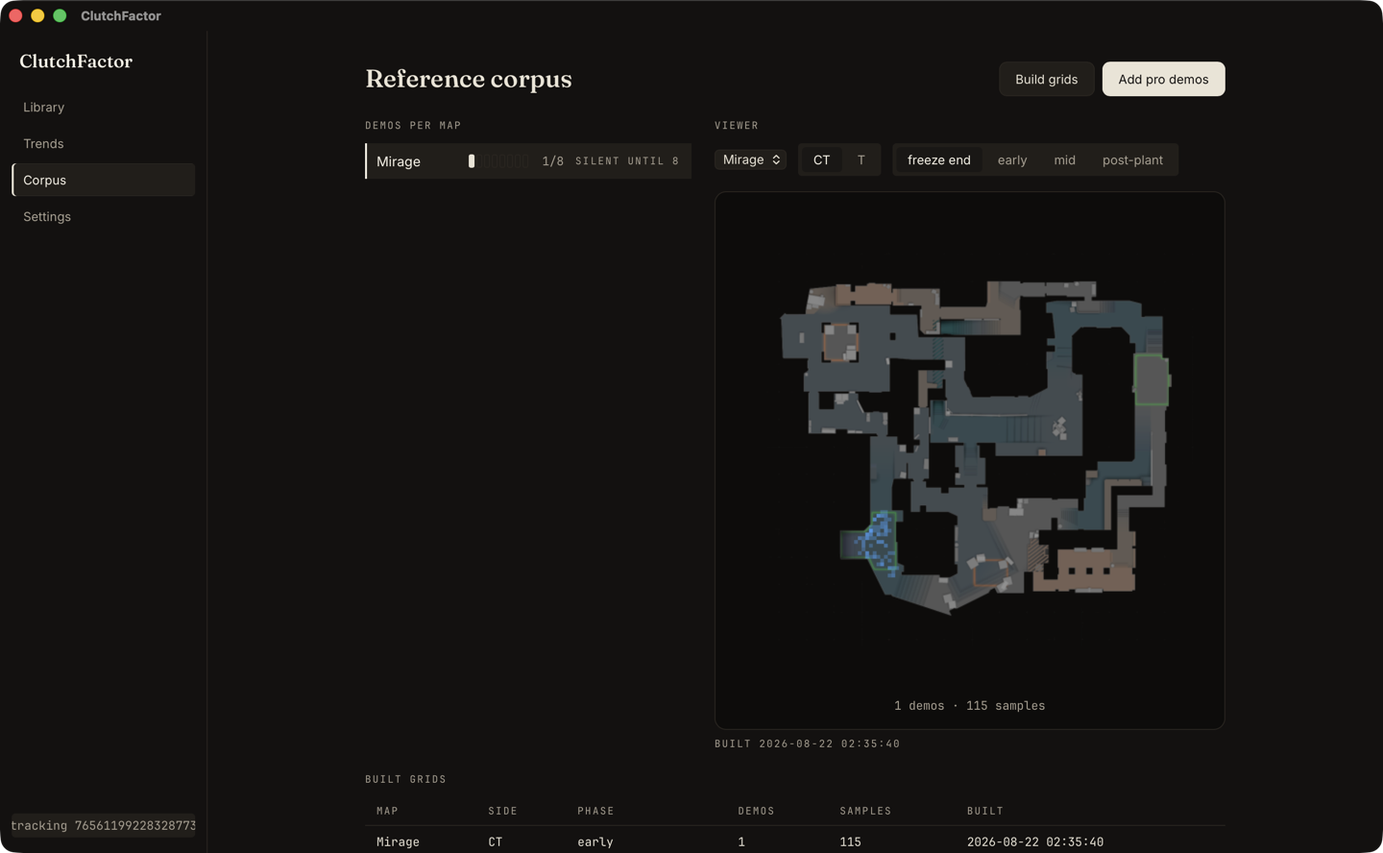
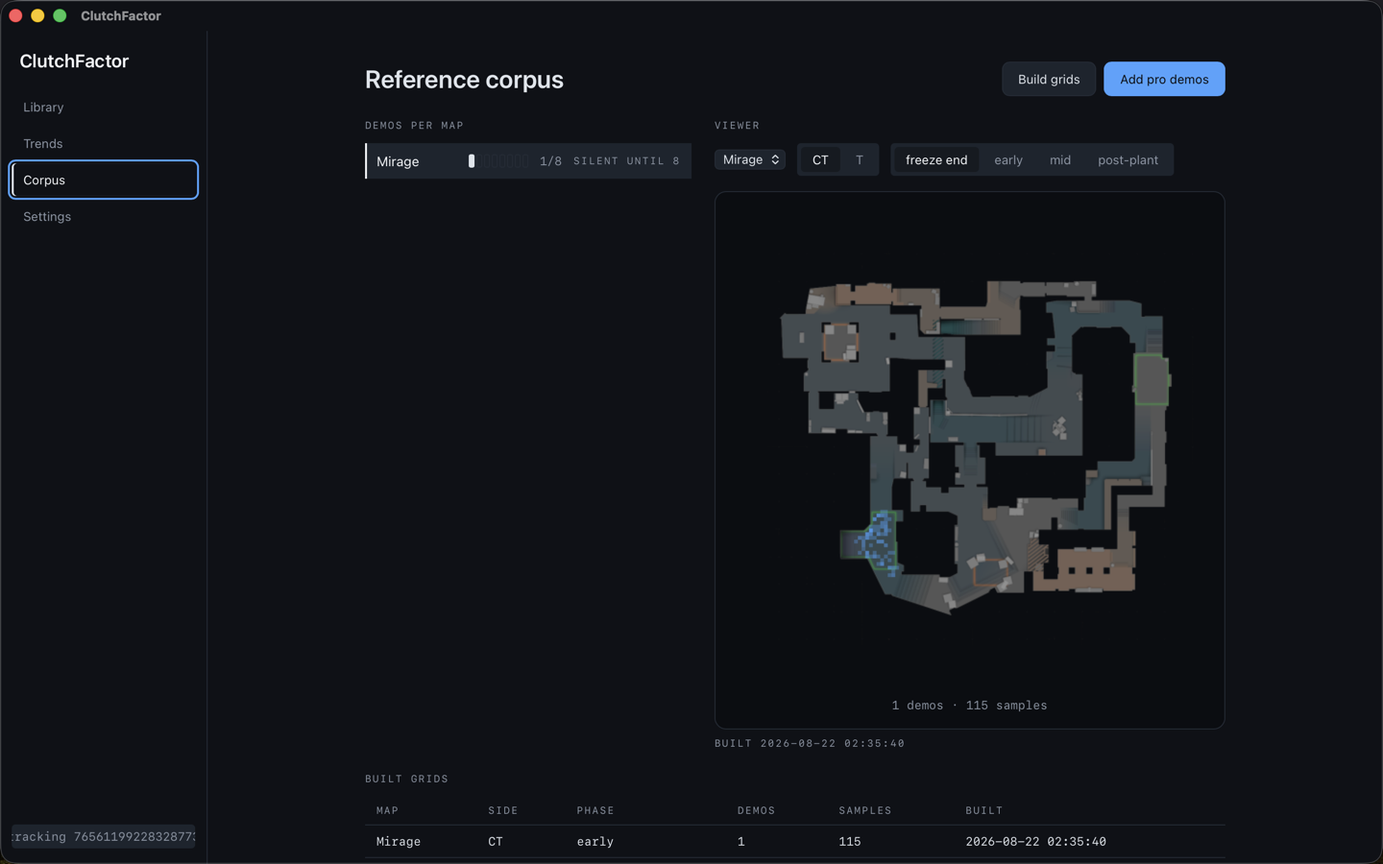
V1.2b finish: hand-verification, walkthrough, progress (#31)
* fix(ui): settings copy points at Re-analyze instead of delete-and-reimport

The tracked-player note still told the user to delete a match and import
the demo again; re_analyze_match re-runs analysis under the current
override, so the Library's Re-analyze is the path now. Caught by the V1.2b
walkthrough.

* docs: V1.2b hand-verification, walkthrough, progress

- fixtures/goldens/README.md: V1.2b hand-verification — dev DB backfilled
  through the real Library → Re-analyze → native picker flow (5/5 own
  matches, ledger rows = round counts); inferno-loss R6/R2 and mirage-tie
  R13 recomputed by hand from raw SQL (setup distances, trade windows,
  death distances/traded, tail-death clamp, alive counts, the match's only
  flash and every HE) — every stored fact and rail line matched; re-analyze
  acceptance (wrong file → hash toast + ledger unchanged, cancel, correct
  file); walkthrough graded against design-system v2 §2–§5.
- docs/design/walkthrough-v1.2b/*.png at 1440×900; docs/screenshots/*.png
  refreshed.
- Spec §1/§2 reconciliation (accent role, rail header sans / context mono,
  the flag kind, explicit death-quality precedence); design-system Chip
  variants and computed contrast figures.
- PROGRESS.md Now/Next/Done/Decisions/Gotchas; CLAUDE.md spec pointer.

---------

diff --git a/src/screens/Settings.tsx b/src/screens/Settings.tsx
@@ -94,8 +94,8 @@ export function Settings() {
               )}
             </div>
             <p className="type-body stg-hint">
-              Applies to new imports. To re-analyze an existing match, delete
-              it in the Library and import the demo again.
+              Applies to new imports — and to any existing match you
+              Re-analyze from the Library.
             </p>
           </Card>
 

diff --git a/docs/PROGRESS.md b/docs/PROGRESS.md
@@ -4,18 +4,19 @@ The resume file. A fresh session reads CLAUDE.md → this file → the active pl
 
 ## Now
 
-V1.2 complete — next: V1.3 AI layer (Gemini API key ask; see Next #1).
+V1.2b complete — next: V1.3 AI layer (the coach; key on hand in the gitignored `env.local`, never committed).
 
 ## Next
 
-1. Owner asks (batched at milestone boundaries per charter): Windows install test on the v0 release; ~8 pro Mirage demos into the corpus to clear the honest D6 gate (Corpus screen → Add pro demos — dev verification used a documented `CLUTCHFACTOR_CONFIG` override, shipped default stays 8); Gemini API key for V1.3's AI layer — needed before that work starts; owner sign-off on the V1.2 round-by-round rail — 3 hand-verified rounds to open and judge (see the 2026-08-22 Done entry for the exact list).
-2. V1.3 — AI layer (PROMPT-V1.md §4/§7): `GeminiNarrator` + match synthesis + grounding validator (the structured `Moment`/`RoundReview` facts ADR-0008 kept un-prenarrated exist for exactly this) + caching + Settings key UX + fallback + template actionability audit — read the charter's V1.3 section fully before starting. DoD: with the key removed the app is byte-identical to template mode; adversarial grounding tests pass; no secret in repo.
-3. M6 debt: Settings UI (tracked-player override), re-analyze command for old imports, hardcoded TICKRATE in Report.tsx, per-round kills include teamkills, habits loading-state mislabel, ad-hoc hotspot score, grid `built_at` shown as unlabeled UTC, report summary "Positioning are" pluralization, D6 severity/confidence as local consts (brief-mandated), calibration_for re-parses embedded JSON per call (cache if corpus ingestion ever calls per-sample). From M5 final review: bound `positions_at` subquery at round start_tick (disconnect ghosts), kind='own' filter on `rule_severity_confidence` (defense in depth), consider `min_samples_per_grid` floor in CorpusCfg (thin post-plant grids), Windows-safe basename split in Library/Corpus, corpus import shows only last per-file error, HeatmapCanvas shows empty-state during in-flight fetch, import_demo grid check should COUNT not load blobs, build_corpus holds the store lock for its whole run (fine solo-desktop; spawn_blocking per demo at scale), rebuild doesn't delete grid rows for vanished (side,phase) combos. (Three other V0-era UI minors — duplicated Library/Corpus queue JSX, `.error-banner` flex layout, a stale build-error surviving into a new import — died with the V1.1 rebuild; see Done below.)
+1. Owner asks (batched at milestone boundaries per charter): Windows install test on the v0 release; ~8 pro Mirage demos into the corpus to clear the honest D6 gate (Corpus screen → Add pro demos — dev verification used a documented `CLUTCHFACTOR_CONFIG` override, shipped default stays 8); Gemini API key — on hand (gitignored repo-root `env.local`; never echoed, never committed); owner sign-off on the V1.2b play-ledger rail — three hand-verified rounds to open and judge: inferno-loss R6 (Not on you) and R2 (Quiet, tail death), mirage-tie R13 (two missed trades) — see the 2026-08-25 V1.2b Done entry.
+2. V1.3 — the coach: `docs/spec/play-ledger-and-coach.md` §3 is the contract — `GeminiNarrator` IS the coach (inputs: the round's `plays` + `timeline`, header, verdict + impact, match context, a digest of recent rounds' ledgers; output `RoundCommentary` JSON; the grounding validator rejects any number/name/callout/round/tick not in the input, retries once, then templates; match synthesis; key from Settings → `CLUTCHFACTOR_GEMINI_KEY` → dev-only `env.local`; CI secret grep guard; cache by facts hash) plus the charter's caching/Settings key UX/fallback/template actionability audit (PROMPT-V1.md §4/§7) — read both fully before starting. DoD: with the key removed the app is byte-identical to template mode; adversarial grounding tests pass; no secret in repo.
+3. M6 debt: Settings UI (tracked-player override), hardcoded TICKRATE in Report.tsx, per-round kills include teamkills, habits loading-state mislabel, ad-hoc hotspot score, grid `built_at` shown as unlabeled UTC, report summary "Positioning are" pluralization, D6 severity/confidence as local consts (brief-mandated), calibration_for re-parses embedded JSON per call (cache if corpus ingestion ever calls per-sample). From M5 final review: bound `positions_at` subquery at round start_tick (disconnect ghosts), kind='own' filter on `rule_severity_confidence` (defense in depth), consider `min_samples_per_grid` floor in CorpusCfg (thin post-plant grids), Windows-safe basename split in Library/Corpus, corpus import shows only last per-file error, HeatmapCanvas shows empty-state during in-flight fetch, import_demo grid check should COUNT not load blobs, build_corpus holds the store lock for its whole run (fine solo-desktop; spawn_blocking per demo at scale), rebuild doesn't delete grid rows for vanished (side,phase) combos. (Three other V0-era UI minors — duplicated Library/Corpus queue JSX, `.error-banner` flex layout, a stale build-error surviving into a new import — died with the V1.1 rebuild; see Done below.)
 4. Perf budgets (§10.4) nightly integration still unbuilt.
 5. External: issue #21 (time-bounded walls-aware reachability) — raycast/geometry-level analysis is a deliberate v1 non-goal (PROMPT.md §5: "anything requiring visibility raycasts against map geometry"); owner decision pending on whether/when this becomes a v2 detector.
 
 ## Done
 
+- 2026-08-25: **V1.2b complete — play ledger + UI revert** (spec `docs/spec/play-ledger-and-coach.md`; PRs #28 A / #29 B / #30 C, docs PR D on `docs/v1.2b-verification`). **A — UI revert (ADR-0009, supersedes ADR-0007):** token *names* kept but re-valued to the v0 navy palette, `--chalk*` renamed to `--ink*`, the bundled Fraunces/Inter/JetBrains Mono files and `@font-face` blocks removed for the v0 system stacks; V1.1 structure kept (shell, `ui/` components, MatchHeader, skeletons, toasts, dashed evidence chips); Library rows show the map's radar thumbnail; the rail per the mockup — a solid 2px *tone* edge on the active row (dashed stays evidence-only), outlined verdict chips; design-system.md re-issued as v2. **B — play ledger:** `cf-analysis::play_ledger` builds a `RoundLedger` for every round the tracked player was in — `setup | flash | smoke | he | molotov | rush | rotation | kill | death | assist | trade | missed_trade | plant | defuse | flag | outcome` plays with structured facts (raw callouts, steamid strings, whole units, 1-dp seconds), `quality` only when a measure backs it, rule flags merged by tick (highest severity wins `rule_id`, any exculpatory flag leaves `exculpatory: true`), plus an all-players kill/bomb timeline; thresholds in `DetectorConfig::ledger` (`LedgerCfg`); `round_review` engine bumped to `rbr-v3`; migration 0008 (`round_plays`, `matches.source_path`); `cf-narrator::plays` template captions (numbers first); `get_round_review` serves `plays`/`timeline` per round and `CoachRail` lists them for every round (a pre-ledger import falls back to its moments with a re-analyze hint). **C — re-analyze:** `re_analyze_match(match_id, path?)` re-parses from the stored `source_path` or a user-picked file whose hash must equal `file_hash`, `replace_match_data` swaps the parsed rows AND clears the analysis tables in one transaction (never new rows beside a stale analysis), then re-runs analysis/review/ledger; Library "Re-analyze" with progress, `needs_file` → native picker, a stale stored path also asks for the file. Final-review fixes: any exculpatory flag ⇒ Neutral death whichever rule wins `rule_id`; a rule firing twice in a round merges into both plays; deaths after `end_tick` clamp to 0 s with `dead_time` ("after the round was decided"); traded lines outcome-neutral; fact-less `flag` plays suppressed. **Hand-verification (Task 14, 2026-08-25):** dev DB (pre-V1.2b imports, no `source_path`) backfilled through the real Library → Re-analyze → native picker flow for all 5 own matches (14–20 s each; `round_plays` rows = round counts 24/16/20/17/24; `source_path` recorded); three rounds recomputed by hand from raw SQL — inferno-loss R6 (setup nearest teammate 159 u / 2 of 4 within 900 u, missed trade at 305 u with 5 shots + 30 dmg in the 128-tick window ⇒ `committed`, death 667 u from the killer / 1,575 u from the nearest teammate, both H2 flags merged ⇒ `exculpatory` + Neutral + "Not on you"), R2 (tail death by `planted_c4` at `end_tick`+19 ⇒ `0.0` + `dead_time` + "after the round was decided"; rotation 2,320 u → arrived 11 s; kills 1,436/775 u; outcome 1v0, 2 kills, 121 dmg) and mirage-tie R13 (two `missed_trade`s at 466/427 u with zero shots or hurts in either 2 s window, both carrying `H2_FAILED_TRADE`; death 292 u traded 102 ticks later, 11.6 s; outcome 2v0) plus the match's only tracked flash (2 enemies / 4 teammates ≥ 1.1 s, self 1.01 s ⇒ not self-blind, Bad) and all four HEs (25/22/0/25 dmg) — **every stored fact and every rail line matched the hand numbers**; re-analyze acceptance: wrong file ⇒ "That file isn't … Pick the original file." toast with the ledger md5 and `source_path` unchanged, cancelled picker ⇒ no change/no error, correct file ⇒ plays (byte-identical ledger, deterministic); walkthrough at a true 1440×900 in `docs/design/walkthrough-v1.2b/` graded against design-system v2 §2–§5 (pass), README screenshots refreshed. Full record: `fixtures/goldens/README.md` "V1.2b hand-verification".
 - 2026-08-22: **V1.2 complete — round-by-round coaching** (issue #9; branches `feat/v1.2-rbr` + `docs/v1.2-verification`). `cf-analysis::round_review` (ADR-0008): an 8-point pure-function model scores every round from the tracked player's win-prob perspective (`cf-analysis::winprob`, ADR-0006) — state replay from kills/bomb events (no tick samples), a terminal defuse/explode latch, threshold-with-cap selection (never fixed top-N) with a won-it guarantee, five verdicts with a load-bearing precedence order (`WonIt → NotOnYou → Traded → CostYou → Quiet`), moments kept structured (facts + `delta_p`) and narrated only at serve time. `cf-narrator::rail` turns that into numbers-first coaching text via fixed factual templates — `Cost you` never asserts fault, `Not on you` only ever from a real `H2_BAITED_TRADE` flag, zero economy/buy language anywhere (all deterministic, so a full source read is a complete verification of every possible output). Storage: additive `round_review` columns + lazy per-match backfill on first `get_round_review`. Frontend: `CoachRail` (round header, moment list with the dashed-chalk active-moment stripe, why-it-mattered/what-to-practise, prev/next-flagged nav), round-strip attention dots (presence + size only, zero color channel), replay-canvas death annotation (dashed line + distance tag to the nearest teammate, solid line to the killer, everyone else dimmed — only during a `tracked_death` moment's ±window). **Hand-verification (Task 10, 2026-08-22):** cleared stale pre-fix `round_review` rows from the dev DB and let the lazy backfill recompute all 5 `fixtures/own/` matches. §12 cross-check — 2 matches (inferno-loss id 3, mirage-tie id 8), 3 rounds each, hand-recomputed from raw `kills`/`bomb_events`/`round_sides` SQL against `win_prob_v1.yaml` cell values and the ADR-0008 model by hand (including the terminal latch and `winprob.rs`'s `ct_alive == 0`/`t_alive == 0 && !planted` rule-clamps) — **6/6 exact matches** on `round_review.impact`, spanning quiet/not_on_you/cost_you/won_it, a real self-kill, and a round-winning kill that only scores because of the zero-alive rule-clamp (mirage R24: 0.273721+0.115170+0.039448 = 0.4283, confirmed live via the app's own +27%/+12%/+4%/+43% moment/summary text). Hard rules verified on real data: `not_on_you` fires from a real `H2_BAITED_TRADE` flag (not absence-of-flags); read all 21 selected rounds' narration across the library — zero fault language, zero economy/buy text; `won_it` guarantee's swap logic confirmed on real numbers (pre-calibration data) plus its unit test. **All 14 acceptance criteria PASS**, walked live in a fresh `pnpm tauri dev` (full table in `fixtures/goldens/README.md`'s "V1.2 hand-verification" section). **Threshold calibration:** `attention_threshold_p` 0.18 → 0.25 (ADR-0008 Calibration amendment) — 0.18 saturated the 6-round cap on all 5 owner matches (15/11/13/12/11 candidates); 0.25 sits in a real gap in the observed impact distribution and leaves only the closest match at the cap (7/4/4/2/5 candidates), a healthy non-uniform distribution.
 - 2026-08-25: **V1.2 final-review fix wave** (branch `docs/v1.2-verification`) — controller-found defects fixed post-hand-verification: `Quiet`-verdict rounds excluded from rail selection regardless of `|impact|` (live: inferno-loss R2 had a bright dot and full moments despite being `quiet`); `why_it_mattered`'s causal claims (`CostYou`/`WonIt`) gated on the review's own `pivotal_tick`; killer surfaced explicitly on `RailMomentDto` instead of implied by `focus` array position; standalone flag moments (`H6_FLASH_SELF_OR_TEAM`/`H6_UNUSED_UTIL_AT_ROUND_END`/`H16_FIRE_LINGER`/`H11_SLOW_ROTATION`) get real per-rule fact lines, fact-less ones suppressed instead of shown as a bare label; stored `round_review` rows now carry a `cfg_fingerprint` (migration 0007) so a threshold/engine change forces a recompute rather than serving a stale review. Full record + live re-verification in `fixtures/goldens/README.md`'s "V1.2 final-review fix wave" section.
 - 2026-08-22: **V1.1 complete — design system "The Film Room"** (branch `feat/v1.1-screens-corpus-settings-finish`). Foundation: color/type/space/motion tokens (`src/styles/tokens.css`) + `src/lib/theme.ts` CSS-var bridge so canvas/TS reads the same values as CSS — no second color system; Fraunces/Inter/JetBrains Mono bundled locally (`assets/fonts/`, ADR-0007). `src/components/ui/` library: Button, Card, Chip, Table, Input, Segmented, EmptyState, Skeleton (shimmer-free), Toast, Sidebar, AppShell, MatchHeader, ImportQueuePanel. Shell: one `<AppShell>` for every screen — fixed 216px sidebar (56px rail on Report/Replay, the two-shell split dies), `shellMode()` route→width decision, one focus treatment (`:focus-visible`, chalk-bright, 2px offset) everywhere. All six screens rebuilt on the system with a `frontend-design` + `dataviz` skill pass each (Library, Report, Replay, Trends, Corpus, Settings) — chalk-annotation grammar (§5: dashed = evidence, solid = furniture) live in evidence chips; legacy `src/styles.css` deleted (−1541 lines across the commit; nothing imports it). **Walkthrough (Task 12):** fresh `pnpm tauri dev` at 1440×900 against the real dev DB (4 own matches + 1 Mirage corpus demo), all six screens captured to `docs/design/walkthrough-v1.1/*.png` and graded principle-by-principle against `docs/design/design-system.md` §1–§10 — all six passed with zero required fixes (full pass/fail table in the Task 12 report and PR body); also verified live at the 1200×760 window floor (Replay side panel/roster holds ≥250px, radar shrinks first, no screen breaks). Three V0-era UI minors died as a side effect of the rebuild: the duplicated Library/Corpus import-queue JSX (now one `ImportQueuePanel`), the legacy `.error-banner` flex layout (class deleted with the stylesheet), and a stale build-error banner surviving into a new import/build (Corpus/Settings now clear `error` when a new run starts). README screenshots (`docs/screenshots/*.png`) refreshed to the new UI, same paths, copy unchanged (nothing in it had gone stale).
@@ -27,7 +28,7 @@ V1.2 complete — next: V1.3 AI layer (Gemini API key ask; see Next #1).
 
 ## Decisions
 
-- ADR-0001 demoparser2 git dep · ADR-0002 16 Hz sampling · ADR-0003 schema v1 (+m2 analysis, +m3 flag evidence, +m4 kind, +m5 corpus_grids) · ADR-0004 awpy radar assets · ADR-0005 main branch protection (PR-only, required checks `rust`/`windows-build`/`web`, admin bypass for release emergencies) · ADR-0006 win-probability table sourcing/shape (V1.0).
+- ADR-0001 demoparser2 git dep · ADR-0002 16 Hz sampling · ADR-0003 schema v1 (+m2 analysis, +m3 flag evidence, +m4 kind, +m5 corpus_grids) · ADR-0004 awpy radar assets · ADR-0005 main branch protection (PR-only, required checks `rust`/`windows-build`/`web`, admin bypass for release emergencies) · ADR-0006 win-probability table sourcing/shape (V1.0) · ADR-0008 rbr impact/verdicts (V1.2) · ADR-0009 UI revert to the v0 navy + system fonts (V1.2b, supersedes ADR-0007).
 - D6: severity 0.5 / confidence 0.6 fixed (unusualness cap); d6_insights takes the match tickrate (no TICKRATE consts); build_corpus re-runs positioning for own matches (fresh grids invalidate old D6); `CLUTCHFACTOR_CONFIG` env = explicit dev threshold override, shipped defaults untouched.
 - Narrator: deterministic template variants via content hash; ClaudeNarrator seam intact (§8).
 - Habit scoring: severity × confidence × (matches_hit/window) × ln(1+total); baited never promoted alone; one hotspot card per map.
@@ -39,5 +40,7 @@ V1.2 complete — next: V1.3 AI layer (Gemini API key ask; see Next #1).
 - Death-tick inventory always empty (pre-death sampling); steamids as strings at JS boundaries; demoparser two-pass + targeted inventory pass; numeric round reasons winner-relative; MM vs GOTV dialects.
 - AX E2E: pause before reading; **a stale dev binary can serve clicks after an edit — kill + relaunch `tauri dev` before trusting E2E results**; round chips are radio buttons; canvas invisible to AX; `.claude/` excluded from git/eslint/vitest.
 - Bash tool cwd persists — a `cd` into a worktree leaks into later commands; use absolute paths or cd back.
+- Fresh-clone/worktree demoparser build can stall on a nested cargo lock — reuse an existing target dir (`CARGO_TARGET_DIR=<main checkout>/src-tauri/target`; a V1.2b worktree built in 10 s that way).
+- AX on the Tauri WebView: `entire contents` can come back empty after focus changes — walk `UI elements` recursively by `role`; the window clamps to the Dock's visible frame (1440×888 on the owner's display) — auto-hide the Dock for a true 1440×900 capture, then restore it.
 - CI: protoc via arduino/setup-protoc; pnpm pinned via packageManager; `source "$HOME/.cargo/env"`.
 - glib RUSTSEC (Dependabot #1): fix needs gtk-stack 0.19+ semver-major held by Tauri — Linux-only exposure (we ship mac/Windows); re-check on Tauri upgrades.

diff --git a/fixtures/goldens/README.md b/fixtures/goldens/README.md
@@ -192,3 +192,144 @@ Screenshots (plus the Library and pre-fix Match Report/Replay-launch shots)
 live in
 `/private/tmp/claude-501/-Users-junlee-Documents-programming-clutchfactor/ed626285-4a44-4fc2-9c1f-bff2273fbf21/scratchpad/`,
 prefixed `t-finalfix-`.
+
+## V1.2b hand-verification (2026-08-25)
+
+Play ledger + re-analyze (spec `docs/spec/play-ledger-and-coach.md` §2, §4
+DoD). Run from the `docs/v1.2b-verification` worktree against the owner's
+real dev DB (`~/Library/Application Support/com.clutchfactor.app/clutchfactor.db`,
+backed up first with `sqlite3 .backup`; 5 `fixtures/own/` matches imported
+before the ledger existed + 1 corpus demo). Tracked `76561199228328773`
+(misosoupy3). All distances below are the engine's metric — nearest sample at
+or before the tick, `sqrt(dx² + dy² + (2·dz)²)` (z-weight 2.0), rounded to
+whole units; seconds are ticks/64 to 1 dp; "window" = 128 ticks (2 s).
+
+### A. Backfill through the real picker flow
+
+Before launch the DB was at migration 0007: no `matches.source_path`, no
+`round_plays`. First launch applied 0008 (column added, table created, all
+six `source_path` NULL, 0 ledger rows). Every own match was then re-analyzed
+from the Library's **Re-analyze** button: the first call returned
+`needs_file` (no `source_path`) and opened the native panel titled
+"Locate <file_name>", which was driven with AppleScript (⌘⇧G → the absolute
+fixture path → Return → Return). Parse + analysis + ledger per match:
+mirage-tie < 30 s, inferno-loss 14 s, dust2-loss 14 s, inferno-win 18 s,
+nuke-tie 20 s (debug build).
+
+```sql
+SELECT match_id, COUNT(*) FROM round_plays GROUP BY match_id;
+-- 2|24  3|16  4|20  7|17  8|24
+SELECT match_id, COUNT(*) FROM rounds GROUP BY match_id;
+-- 2|24  3|16  4|20  6|23  7|17  8|24        (6 = the corpus demo: no tracked player, no ledger, not in the Library)
+SELECT id, source_path FROM matches WHERE kind='own';
+-- every row now carries its absolute fixtures/own/<file>.dem path
+```
+
+Play kinds written (per match, from `plays_json`): nuke-tie 24 setup / 24
+outcome / 19 death / 13 kill / 10 assist / 23 missed_trade / 4 he / 3 molotov
+/ 4 smoke / 2 rotation / 2 plant / 1 defuse; inferno-loss 16/16, 15 death, 6
+kill, 7 missed_trade, 1 trade, 1 rush, 1 rotation, 1 flash, 4 he, 3 smoke, 2
+plant, 2 bare `flag`; inferno-win 20/20, 14 death, 16 kill, 4 trade, 6
+missed_trade, 4 flash, 7 molotov, 5 `flag`; dust2-loss 17/17, 17 death, 6 kill,
+13 missed_trade, 5 flash, 2 rotation; mirage-tie 24/24, 19 death, 7 kill, 10
+missed_trade, 1 trade, 4 smoke, 1 plant. Quality tags only where a measure
+backs them (death Bad/Neutral, flash Good/Bad/Neutral, he/molotov Bad on team
+damage, trade Good, missed_trade Bad/Neutral, rush Neutral, kill Bad on a
+teamkill).
+
+### B. Three rounds recomputed by hand from raw SQL
+
+Each row: the raw query → the hand number → the stored ledger fact → the rail
+line the app rendered (read back from the Replay screen's accessibility tree,
+verbatim). **Every fact and every line matched; no fix commit was needed.**
+
+**inferno-loss (id 3) R6 — CT, lost (`ct_killed`); `start 25475 · freeze_end
+26435 · end 32226 · officially_ended 32674`.** Flags on the tracked death tick
+28287: `H2_ISOLATED_DEATH` (sev 0.8) + `H2_BAITED_TRADE` (sev 0.35, the
+exculpatory rule).
+
+| Check | SQL (match_id=3) | Hand | Ledger fact | Rail line |
+|---|---|---|---|---|
+| Setup checkpoint 26435+320 = **26755** | `tick_samples` latest ≤ 26755 for tracked + the 4 CT teammates (all sampled at 26752) | me (1677.5, 2769.7, 124.0) CTSpawn → SirEggsAlot **159.50** (f32 159.4955 → 159), Mashed Potato 323.9, Crunchy Potato 1527.8, Roland 1813.3 → nearest SirEggsAlot 159; within 900 u: 2 of 4 | `nearest_teammate` SirEggsAlot, `nearest_teammate_dist` 159, `teammates_within_isolation` 2, `teammates_alive` 4, place CTSpawn | "0:05 Setup at CT spawn · Nearest teammate SirEggsAlot, 159 u · 2 of 4 teammates within 900 u" |
+| Flashes | `blinds WHERE attacker=tracked AND tick BETWEEN 25475 AND 32674`; `grenades WHERE thrower=tracked …` | 0 rows / 0 rows — the tracked player threw nothing in R6 | no flash/smoke/he/molotov play (silence) | (none) |
+| Missed trade @ **28215** (SirEggsAlot ← MyUnit) | samples at 28212; `shots`/`hurts` by tracked in [28215, 28343]; `kills WHERE victim=MyUnit AND tick ≤ 28343` | me↔SirEggsAlot **304.53** ≤ 700; 5 shots (28258–28284) + 30 dmg on MyUnit at 28284 ⇒ committed; MyUnit not killed in the window ⇒ not traded by team | `missed_trade` distance 305, `committed` true, `traded_by_me` false, `traded_by_team` false, quality neutral, no rule (H2_FAILED_TRADE correctly did not fire) | "0:27 Trade on SirEggsAlot missed · You fired, but MyUnit lived 2 s" |
+| Death @ **28287** by MyUnit (galilar, HS) | samples at 28284 for tracked, MyUnit, living CT; `kills WHERE victim=MyUnit AND tick BETWEEN 28287 AND 28415` | me↔MyUnit **666.61** → 667; nearest living teammate Mashed Potato **1575.18** → 1575 (Crunchy 1666.4, Roland 1966.6, SirEggsAlot dead); MyUnit not killed in the window ⇒ not traded; (32226−28287)/64 = **61.55** → 61.5; before the kill CT 4 (SirEggsAlot dead) v T 4 (Ismoothy dead) | `killer_distance` 667, `nearest_teammate` Mashed Potato 1575, `traded` false, `round_end_delta_s` 61.5, `dead_time` false, `man_context` 4v4, `rule_id` H2_ISOLATED_DEATH, **`exculpatory` true, `quality` neutral**, merged `their_distance` 1575.18 / `non_following_teammate` Mashed Potato / `dead_teammate` SirEggsAlot | chip **"Not on you"**; "0:28 Died to MyUnit · 667 u, galilar, headshot · Nearest: Mashed Potato · 1,575 u away at Banana · Mashed Potato 1,575 u back when SirEggsAlot went down — never in trade range · Not traded — round ended 62 s later · 4v4 before" |
+| Outcome @ 32226 | roster minus `kills` at or before 32674; `hurts` by tracked on T in the span | CT 5 − 5 = 0; T 5 − 5 = 0 (MyUnit died to the bomb at 32530, after the round ended) → 0v0; kills 0; damage 30 (m4a1 on MyUnit) | `won` false, `my_alive` 0, `their_alive` 0, `kills` 0, `damage` 30, `reason` ct_killed | "1:30 Round lost — ct killed · 0v0 at the end · 0 kills, 30 damage" |
+
+The only tracked flash in this demo is R15 @ **89265** (grenade event tick =
+blind tick), checked in its place: 7 `blinds` rows — enemies ≥ 1.1 s: MyUnit
+5.10, Ismoothy 4.81 (CT, tracked is T after the swap) → **2**; teammates ≥ 1.1 s:
+Roland 4.84, Mashed Potato 4.58, SirEggsAlot 5.16, Crunchy Potato 3.56 → **4**;
+self 1.01 s < 1.1 → not self-blind; no kill in [89265, 89393] → not converted.
+Ledger: `enemies_blinded` 2, `teammates_blinded` 4, `self_blind` false,
+`converted` false, quality **bad** ✓. All four tracked HEs also match their
+`hurts` (`weapon='hegrenade'`, 0.5 s window): R10 @56438 17 + 8 = **25** on Konky
++ MyUnit → `enemy_damage` 25 / `victims` both ✓; R11 @67372 **22** on Ismoothy ✓;
+R15 @88846 no hurt rows → **0** ✓; R16 @94017 **25** on MyUnit ✓; team/self damage
+0 everywhere ✓.
+
+**inferno-loss (id 3) R2 — CT, lost (`bomb_exploded`); `start 3379 ·
+freeze_end 4339 · end 8952 · officially_ended 9400`.** No tracked flags.
+
+| Check | SQL (match_id=3) | Hand | Ledger fact | Rail line |
+|---|---|---|---|---|
+| Setup @ **4659** | samples at 4656 | me (2153.7, 2543.1, 124.0) CTSpawn → Roland **431.56** → 432, Mashed Potato 575.2, SirEggsAlot 677.7, Crunchy Potato 1393.1 → 3 of 4 within 900 | nearest Roland 432, within 3, alive 4 | "0:05 Setup at CT spawn · Nearest teammate Roland Pryzbylewski, 432 u · 3 of 4 teammates within 900 u" |
+| Rotation (plant @ **6328** by Chet at BombsiteA) | samples for Chet at 6328, tracked at 6328 / 6968 / 7032; `rotate_radius_u` 800 | me at Banana **2320.13** → 2320 from the plant; 10 s later 997.7 (> 800), 11 s later **793.2** (≤ 800) → arrived at 11 s | `distance_at_plant` 2320, `at_site` false, `arrived_s` 11.0, `died_before_arrival` false | "0:31 Rotated to the plant in 11 s · 2,320 u from the plant when it went down" |
+| Kill @ **7887** Konky (mp9) | samples at 7884; `kills` before 7887 | **1436.27** → 1436; before: CT 3 (Crunchy 6010, SirEggsAlot 6838 dead) v T 5 | `killer_distance` 1436, `man_context` 3v5 | "0:55 Killed Konky · 1,436 u, mp9 · Konky down · +2% win probability · 3v5 before" |
+| Kill @ **8249** MyUnit (mp9) | samples at 8248 | **775.34** → 775; before: T 2 (Konky, Chet 7904, Logical 8192 dead) | `killer_distance` 775, `man_context` 3v2 | "1:01 Killed MyUnit · 775 u, mp9 · MyUnit down · +35% win probability · 3v2 before" |
+| **Tail death @ 8971** (`planted_c4`, no attacker — 19 ticks after `end_tick`) | `kills` row 8971; samples at 8968 | (8952 − 8971) = −19 ticks → clamped **0.0**, `dead_time`; no killer ⇒ not traded; nearest Roland **375.69** → 376 (Mashed Potato 1145.5); before: CT 3 v T 0 | `round_end_delta_s` **0.0**, `dead_time` **true**, `traded` false, `killer` null, `nearest_teammate` Roland 376, `man_context` 3v0, place Apartments, no quality | "1:12 Death · Nearest: Roland Pryzbylewski · At Apartments · **Not traded — after the round was decided** · 3v0 before" |
+| Outcome @ 8952 | roster minus kills ≤ 9400; `hurts` by tracked on T | CT 5 − 4 (Crunchy, SirEggsAlot, misosoupy3 @8971, Roland @8975) = **1**; T 5 − 5 = **0**; kills 2; damage 21+17+21+21+15+26 = **121** | `my_alive` 1, `their_alive` 0, `kills` 2, `damage` 121, `survived` false | "1:12 Round lost — bomb exploded · 1v0 at the end · 2 kills, 121 damage" |
+
+**mirage-tie (id 8) R13 — T, won (`ct_killed`); `start 76557 · freeze_end
+77933 · end 80183 · officially_ended 80631`.** Flags: `H2_FAILED_TRADE` @78958
+(distance 466.40), `H2_FAILED_TRADE` @79424 (427.21), `H4_KILLED_WITHOUT_CONTACT`
+@79440 (`no_contact`, p250).
+
+| Check | SQL (match_id=8) | Hand | Ledger fact | Rail line |
+|---|---|---|---|---|
+| Setup @ **78253** | samples at 78252 | me (1128.3, −1017.7, −259.7) TSpawn → xnopyt **221.7** → 222, Bebita 302.5, Roland 389.3, lyra 449.9 → 4 of 4 | nearest xnopyt 222, within 4, alive 4 | "0:05 Setup at T spawn · Nearest teammate xnopyt, 222 u · 4 of 4 teammates within 900 u" |
+| Missed trade @ **78958** (Bebita ← tttttssssss) | samples at 78956; `shots WHERE player=tracked AND tick BETWEEN 78958 AND 79086` → 0; `hurts` by tracked in that window → 0 (the tracked glock shots are at 78626–78694 and 79131–79179); tttttssssss died at 79150 (192 ticks > 128) | me↔Bebita **466.4** → 466 ≤ 700; no commit; not traded by team | `distance` 466, `committed` false, `traded_by_me` false, `traded_by_team` false, quality **bad**, `rule_id` **H2_FAILED_TRADE** | "0:16 Didn't trade Bebita · tttttssssss killed them 466 u from you; no shot from you in 2 s" |
+| Missed trade @ **79424** (Roland ← NCZ RG) | samples at 79424; shots/hurts in [79424, 79552] → 0; NCZ RG died at 79670 (246 > 128) | **427.2** → 427; no commit; not traded | `distance` 427, `committed` false, quality **bad**, `rule_id` **H2_FAILED_TRADE** (the second same-rule flag now merges — final-review fix #2) | "0:23 Didn't trade Roland Pryzbylewski · NCZ RG killed them 427 u from you; no shot from you in 2 s" |
+| Death @ **79440** by doctorwu2021 (p250) | samples at 79440; `kills WHERE victim=doctorwu2021 AND tick BETWEEN 79440 AND 79568` → 79542 | me↔doctorwu2021 **291.7** → 292; nearest lyra **371.7** → 372 (xnopyt 567.5); killer died 102 ticks later ⇒ traded; (80183−79440)/64 = **11.6**; before: T 3 v CT 4 | `killer_distance` 292, `nearest_teammate` lyra 372, `traded` true, `round_end_delta_s` 11.6, `dead_time` false, `man_context` 3v4, `rule_id` H4_KILLED_WITHOUT_CONTACT, quality bad | chip "Traded"; "0:23 Died to doctorwu2021 · 292 u, p250 · Nearest: lyra · At A site · Traded — round continued 12 s after · 3v4 before" |
+| Utility | `grenades`/`blinds` by tracked in the span; `hurts WHERE weapon IN ('hegrenade','inferno','molotov','incgrenade')` by anyone in the span | nothing thrown by the tracked player; no HE/fire damage by anyone in R13 | no utility play (silence) | (none) |
+| Outcome @ 80183 | roster minus kills ≤ 80631; `hurts` by tracked by weapon/victim side | T 5 − 3 = **2**; CT 5 − 5 = **0**; kills 0; damage glock **11** on CT | `won` true, `my_alive` 2, `their_alive` 0, `kills` 0, `damage` 11 | "0:35 Round won — ct killed · 2v0 at the end · 0 kills, 11 damage" |
+
+Observations (truthful per the spec's definitions, logged for the V1.3 coach
+rather than fixed here): the outcome's alive counts are taken at
+`officially_ended_tick`, so post-decision bomb deaths count (R6 reads "0v0 at
+the end"; R2 "1v0" while its tail death reads "3v0 before"); a death with no
+rule renders "Nearest: <name>" without the stored `nearest_teammate_dist`
+(R2: 376 u is in the facts, not in the caption); `H4_KILLED_WITHOUT_CONTACT`'s
+`variant` isn't narrated in the ledger caption; two same-clock rows in R2
+("1:12 Round lost" before "1:12 Death") are tick-ordered truth (8952 < 8971).
+
+### C. Re-analyze acceptance (Library → Re-analyze, dust2-loss id 7)
+
+| # | Case | What happened | Evidence |
+|---|---|---|---|
+| a | Pre-V1.2b import, `source_path` NULL → picker → correct file | Every one of the five matches in Part A: `needs_file` → "Locate <file>" panel → fixture → progress ("Checking the demo file 0%" → parsing → analysis) → toast "Re-analyzed <Map> — play-by-play is ready for every round." → ledger rows for every round, `source_path` recorded | `round_plays` counts above; toast text read from the AX tree |
+| b | Wrong file → hash error, ledger unchanged | `UPDATE matches SET source_path='…/nuke-tie-18-8-2026.dem' WHERE id=7` (a stale stored path) → Re-analyze → the picker opened (the stored-path hash mismatch is `needs_file`, not an error — final-review fix #4) → picked the nuke demo → error toast **"That file isn't dust2-loss-18-8-2026.dem — its contents don't match the imported demo. Pick the original file."** 4 s after the pick; `round_plays` for id 7 md5 `3a09d7b6…` before and after (unchanged), `source_path` unchanged | toast text from the AX tree; md5 over `round, plays_json, timeline_json` |
+| c | Cancelled picker → no change, no error | Re-analyze → picker → Escape → no toast, no progress, md5 unchanged, `source_path` unchanged | AX dump after cancel had no status/error text |
+| a′ | Then the correct file | picker → dust2 fixture → toast "Re-analyzed Dust2 — play-by-play is ready for every round.", `source_path` back to the dust2 path, 17 rows, ledger md5 identical to the earlier run (the ledger is deterministic) | SQL |
+
+Picker flow driven end to end through the real native panel (no SQL
+fallback needed); `commands.rs`'s `resolve_candidate…` / `hash_mismatch…`
+unit tests cover the same branches off-screen.
+
+### D. Walkthrough (`docs/design/walkthrough-v1.2b/`, window 1440×900)
+
+Captured from the running app at a true 1440×900 (the Dock was auto-hidden
+for the capture — macOS otherwise clamps the window to 1440×888 on the
+owner's display; restored afterwards). Graded against
+`docs/design/design-system.md` v2:
+
+| Screen | §2 color | §3 type | §4 space/radius/motion | §5 dashed grammar | Verdict |
+|---|---|---|---|---|---|
+| `library.png` | navy canvas/surfaces; win/loss row edges the only outcome hue; accent only on "Import demos" and focus; radar thumbnails at 80% on `--bg-tape` | sans map names (600), mono score/K-D/HS/rounds/dates | `--r-md` rows, `--s4` padding, 56×56 `--r-sm` thumbnails, 1px `--line` | no dashes (nothing here is evidence) | PASS |
+| `replay-rail.png` (inferno-loss R2, playhead 0:55) | radar well on `--bg-tape`; CT/T only on rosters, round chips, kill feed; active row's **solid 2px win-tone edge** (+2% play); verdict chip "Quiet" **outlined neutral** | rail header sans, context line + timestamps + facts mono; headlines sans | `--r-lg` radar well, `--r-md` cards, 4px-grid gaps | dashed only on evidence (the death annotation's teammate line appears only inside a death moment); the active row is a solid edge, never dashed | PASS |
+| `report.png` | coach-note lead + insight cards with `--loss` severity edges; class-13 bar in `--win` (good news), other bars ink; no ring/donut | display sans titles, mono percentages/evidence chips | Card/eyebrow/chip tokens | evidence chips dashed-underlined and clickable — the only dashes on screen | PASS |
+| `settings.png` | cards, one accent primary ("Track this player"), secondary "Clear override" | mono threshold table incl. the new `ledger.*` rows; eyebrows in micro caps | Table hairlines, Input `--r-sm` | none | PASS (copy nit fixed in this PR: the tracked-player note still told the user to delete and re-import a match — it now points at Re-analyze) |
+
+`docs/screenshots/{library,replay,report,corpus,trends}.png` recaptured at
+1440×900 (1×) from the same session; README copy unchanged (`grep -n
+"Fraunces\|serif" README.md` prints nothing).

diff --git a/docs/spec/play-ledger-and-coach.md b/docs/spec/play-ledger-and-coach.md
@@ -23,7 +23,7 @@ and the chalk-era names are renamed to neutral ink names in one mechanical pass:
 | `--bg-tape` | `#0b0d11` | radar & heatmap wells (a touch darker than bg0) |
 | `--line` / `--line-strong` | `#232b36` / `#2f3944` | hairlines / emphasized |
 | `--ink` / `--ink-bright` / `--ink-dim` / `--ink-faint` | `#dfe5ec` / `#f2f5f8` / `#8a94a3` / `#5c6672` | primary / interactive / secondary / tertiary ink (renamed from `--chalk*`) |
-| `--accent` | `#4aa3ff` | the app accent — buttons, focus ring, progress, links (v0 used CT blue for this; restored) |
+| `--accent` | `#4aa3ff` | the app accent — buttons, focus ring, progress fills (v0 used CT blue for this; restored; the app chrome has no links) |
 | `--ct` / `--t` / `--win` / `--loss` / `--tie` | `#4aa3ff` / `#f5b83d` / `#5dbb7a` / `#d16a5f` / `#8a94a3` | unchanged game/outcome hues |
 
 `--accent` and `--ct` share a value but stay separate tokens so side identity
@@ -47,8 +47,9 @@ edge (`--loss` mixed by the moment's |Δp| or rule severity, `--win` for
 positive plays), replacing the dashed-chalk stripe (design-system §5 updated:
 dashed = evidence chips only; solid severity edge = the current moment).
 Verdict chip: `cost_you` = loss outline + loss text, `won_it` = win outline,
-`not_on_you`/`traded`/`quiet` = neutral outline. Header/context lines in sans
-as in the mockup; timestamps mono.
+`not_on_you`/`traded`/`quiet` = neutral outline. The rail header (round
+number, verdict chip) is sans as in the mockup; the context line and the
+timestamps are mono (what shipped).
 
 **Library thumbnails.** Each match row shows the map's radar image
 (`radarImageUrl(map, "upper")`, the vendored `assets/maps/<map>.png`) as a
@@ -78,7 +79,7 @@ RoundLedger { round, plays: Vec<Play>, timeline: Vec<TimelineEvent> }
 Play {
   tick, phase: RoundPhase,
   kind: setup | flash | smoke | he | molotov | rush | rotation |
-        kill | death | assist | trade | missed_trade | plant | defuse | outcome,
+        kill | death | assist | trade | missed_trade | plant | defuse | flag | outcome,
   facts: Value,            // numbers + RAW callouts + steamid strings (as today)
   quality: Option<Quality>,// Good | Bad | Neutral — ONLY when a measure backs it
   rule_id: Option<String>, // when an existing rule fired on this tick
@@ -99,10 +100,11 @@ Play definitions (thresholds in `DetectorConfig::ledger`, seconds/units):
 | he / molotov | each tracked detonate/inferno | enemy damage, team damage, victims | Bad if team damage; else none (damage stands alone) |
 | rush | tracked beyond `timing.min_spawn_distance_u` within `timing.early_aggression_s` with no teammate within `trade.distance_u` | distance, seconds, nearest teammate | Bad if died in that window (H11); else Neutral, labeled "no support" |
 | rotation | bomb planted | tracked at planted site? time-to-site if arrived | Bad if H11_SLOW_ROTATION fired; else none |
-| kill / death | each tracked kill / death | victim/killer, place, distance, headshot, traded, isolated, man context before; death adds `round_end_delta_s` (clamped at 0) + `dead_time` (died after the round was decided); merged flag details, plus the additive `exculpatory: true` marker when any `rbr.exculpatory_rules` flag merged in (no seen-first metric — the parser's `spotted` flag is per-player, not pairwise, so it stays silent) | death: Bad when an H2/H3/H4/H6/H11/H16 rule fired; Neutral when traded or when ANY exculpatory flag merged in, whichever rule won `rule_id` (ADR-0008 "Not on you"); none for fair duels |
+| kill / death | each tracked kill / death | victim/killer, place, distance, headshot, traded, isolated, man context before; death adds `round_end_delta_s` (clamped at 0) + `dead_time` (died after the round was decided); merged flag details, plus the additive `exculpatory: true` marker when any `rbr.exculpatory_rules` flag merged in (no seen-first metric — the parser's `spotted` flag is per-player, not pairwise, so it stays silent) | death, in precedence order: (1) ANY exculpatory flag merged in (`exculpatory: true`) → Neutral, whichever rule won `rule_id` (ADR-0008 "Not on you"); (2) else any non-exculpatory rule fired (`rule_id` set — H2/H3/H4/H6/H11/H16) → Bad, regardless of `traded`; (3) else `traded` → Neutral; (4) else none (a fair duel). `traded` only matters when no rule fired |
 | assist | tracked assist | victim, teammate | none |
 | trade / missed_trade | a teammate died within `trade.distance_u` of tracked | teammate, killer, tracked committed within `trade.commit_window_s`? | Good (trade) / Bad (missed, H2_FAILED_TRADE) |
 | plant / defuse | tracked plants/defuses | delta_p | none |
+| flag | a tracked-player rule fired on a tick that carries no play of the tracked player's (a bare flag; a flag on a play's tick merges into that play instead) | the rule's own `details` | Bad; Neutral when the rule is in `rbr.exculpatory_rules` |
 | outcome | round end | won, survived, my-vs-their alive at end, reason | none |
 
 Silence bias holds: a play with no computable number is not emitted; a quality

diff --git a/docs/design/design-system.md b/docs/design/design-system.md
@@ -174,8 +174,9 @@ surfaces, 3 focus treatments, 6 badge one-offs — all collapse into these.)
 - **Card** — `--bg1`, `--line`, `--r-md`, padding `--s4`; optional eyebrow
   slot; optional `edge` prop (win/loss/severity left edge, 2px).
 - **Chip / Badge** — mono `--text-data`, `--r-sm`; variants: default,
-  evidence (dashed underline — see §5), outlined (verdict chips), side-ct/
-  side-t, count.
+  evidence (dashed underline — see §5), side-ct/side-t, count. The rail's
+  verdict chips are `count` chips styled through `className` (loss/win/
+  neutral outline — spec §1); there is no outlined variant.
 - **Table** — the one table style (mono data cells, sans header eyebrows,
   hairline rows); replaces `.grid-table` + match-list grid.
 - **Input / Select** — dark, `--r-sm`, ink caret, accent-bright focus ring.
@@ -248,8 +249,8 @@ screen's code; screenshot + self-critique against this doc before done.**
 
 ## 10. Accessibility & quality floor
 
-WCAG AA contrast on every token pair used (ink on bg0 ≈ 12.9:1, ink-dim on
-bg1 ≥ 4.6:1 — verify pairs when finalizing values; ink-faint is decorative
+WCAG AA contrast on every token pair used (ink on bg0 ≈ 14.9:1, ink-dim on
+bg1 ≈ 5.7:1 — computed from the v2 values above; ink-faint is decorative
 only, never for essential text). One focus treatment everywhere. Keyboard:
 existing replay bindings stay; sidebar and all controls tabbable. No layout
 shift on data arrival (skeletons at final size). Dark only, done impeccably

diff --git a/CLAUDE.md b/CLAUDE.md
@@ -1,6 +1,7 @@
 # ClutchFactor
 
 Desktop CS2 coaching app: parses match demo files (`.dem`) and produces coaching insights backed by a 2D replay viewer — not a stats tracker. **`PROMPT-V1.md` is the approved v1 engineering charter — read it first; it supersedes `PROMPT.md` where they conflict, and PROMPT.md remains binding everywhere else.** v1 pillars: round-by-round coaching (GitHub issue #9 IS that spec — read it fully), Gemini AI layer, premium design system, coaching depth + stats. `docs/spec/death-taxonomy.md` (PROMPT.md §5A) governs death/duel analysis: 15-class taxonomy, H1–H16 rule families, cross-demo habit tracking. This file is session context; keep it ≤120 lines and always correct (§11.1).
+`docs/spec/play-ledger-and-coach.md` governs V1.2b's play ledger (every round narrated) and V1.3's coach contract (facts validated, judgment free).
 
 Tracked player (owner): SteamID64 `76561199228328773`, in-game name `misosoupy3` — present in all five `fixtures/own/` demos.
 
